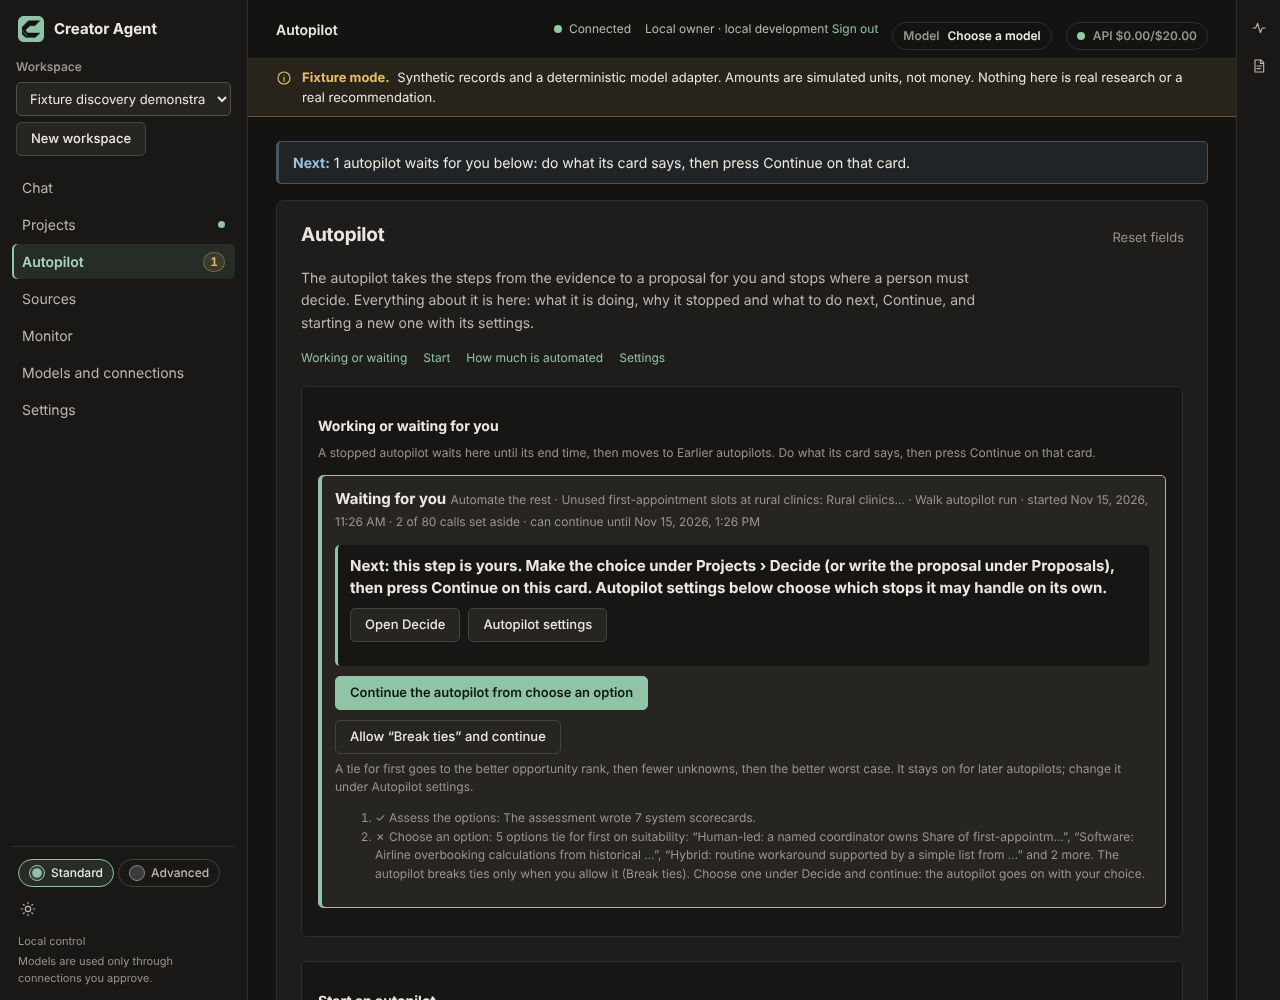
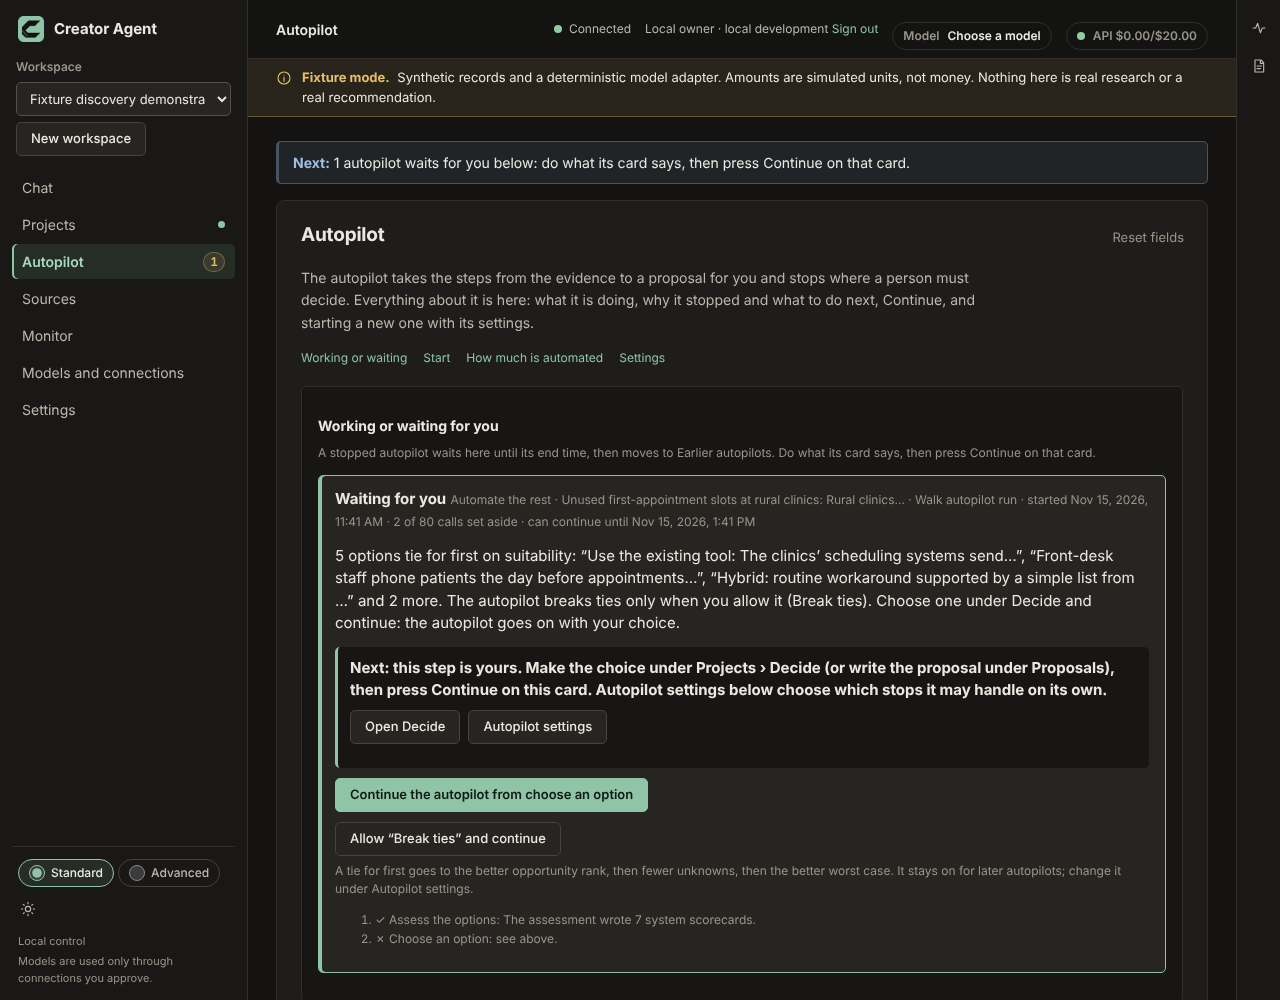
PR #213 review 2: ended Earlier cards say why, level and names fixes, EXPIRED on allow
Claude-Session: https://claude.ai/code/session_01JTbuZrsdRG1zP8JiZAz6eE

Changed region(s): [[0.25, 0.496, 0.875, 0.961], [0.25, 0.992, 0.3438, 1.0]]

diff --git a/apps/web/src/autopilot.tsx b/apps/web/src/autopilot.tsx
@@ -122,22 +122,41 @@ export function Autopilot({
   const owner = workspace.role === 'owner';
   const fixture = workspace.record_mode === 'fixture';
   const ctx = useLoad(async () => {
-    const [autopilots, routing, runs, problems] = await Promise.all([
+    const [autopilots, routing] = await Promise.all([
       api(z.array(AutopilotSchema), `${base}/autopilots`),
       loadRoutes(base),
-      // Review 1 of #213, L-4: each card names its run and problem, so two cards differ.
+    ]);
+    return { autopilots, ...routing };
+  }, [workspace.id]);
+  const c = ctx.data;
+  // Review 1 of #213, L-4: each card names its run and problem, so two cards differ. Read on
+  // their own, not with the list polled every 3 s, and again only when an autopilot names a
+  // run or problem not read yet (review 2, L-3).
+  const [names, setNames] = useState<Map<string, string>>(new Map());
+  const wanted = (c?.autopilots ?? [])
+    .flatMap((a) => [a.run_id, a.config.start?.problem.id ?? ''])
+    .filter((id) => id && !names.has(id));
+  const missing = [...new Set(wanted)].sort().join(',');
+  useEffect(() => {
+    if (!missing) return;
+    let live = true;
+    void Promise.all([
       api(z.array(TitledSchema), `${base}/entities?kind=run`).catch(() => []),
       api(z.array(TitledSchema), `${base}/entities?kind=problem`).catch(
         () => [],
       ),
-    ]);
-    return {
-      autopilots,
-      ...routing,
-      names: new Map([...runs, ...problems].map((e) => [e.id, e.title])),
+    ]).then(([runs, problems]) => {
+      if (!live) return;
+      const next = new Map(names);
+      for (const e of [...runs, ...problems]) next.set(e.id, e.title);
+      // An id with no record keeps an empty name, so it is not asked for again.
+      for (const id of missing.split(',')) if (!next.has(id)) next.set(id, '');
+      setNames(next);
+    });
+    return () => {
+      live = false;
     };
-  }, [workspace.id]);
-  const c = ctx.data;
+  }, [missing, workspace.id]);
   // A link to one autopilot (`id` in the address) opens its card, unfolding Earlier autopilots
   // when it is there, once the list has loaded.
   const shownFocus = useRef('');
@@ -430,7 +449,8 @@ export function Autopilot({
     const line = (s: AutopilotRecord['steps'][number], i: number) => (
       <li key={i} value={i + 1}>
         {MARK[s.state]} {AUTOPILOT_STAGE_LABEL[s.stage]}
-        {s.attempt > 1 ? ` (try ${s.attempt})` : ''}: {s.note}
+        {s.attempt > 1 ? ` (try ${s.attempt})` : ''}:{' '}
+        {repeats && i === a.steps.length - 1 ? 'see above.' : s.note}
       </li>
     );
     // Review 1 of #213, L-5: on a current card the last three steps show and the earlier ones
@@ -438,15 +458,16 @@ export function Autopilot({
     const shown = now ? a.steps.slice(-3) : a.steps;
     const folded = now ? a.steps.slice(0, -3) : [];
     const last = a.steps.at(-1);
-    // N-5: the explanation is left out when the last step's note already says it.
+    // N-5 (review 2, N-1): the stop's reason shows once, above the next step; the last step
+    // then points to it instead of repeating it.
     const repeats =
       !!last?.note &&
       (last.note === a.explanation ||
         last.note.includes(a.explanation.slice(0, 120)) ||
         a.explanation.includes(last.note.slice(0, 120)));
-    const run = c?.names.get(a.run_id);
+    const run = names.get(a.run_id);
     const problem = a.config.start?.problem
-      ? c?.names.get(a.config.start.problem.id)
+      ? names.get(a.config.start.problem.id)
       : undefined;
     const steps = (
       <>
@@ -514,7 +535,13 @@ export function Autopilot({
           <strong>
             {a.state === 'running'
               ? `Working: ${AUTOPILOT_STAGE_LABEL[a.stage].toLowerCase()}`
-              : (OUTCOME_LABEL[a.outcome ?? ''] ?? words(a.outcome ?? ''))}
+              : // Review 2 of #213, L-1: a stop that can no longer continue is not waiting.
+                !now &&
+                  a.outcome &&
+                  AUTOPILOT_RETRYABLE.includes(a.outcome) &&
+                  !can.ok
+                ? `Ended: ${can.reason.startsWith('Its end time') ? 'its end time passed' : 'it cannot continue'}`
+                : (OUTCOME_LABEL[a.outcome ?? ''] ?? words(a.outcome ?? ''))}
           </strong>{' '}
           <span className="small">
             {a.automation_id
@@ -536,7 +563,7 @@ export function Autopilot({
               : ''}
           </span>
         </p>
-        {!repeats && <p>{a.explanation}</p>}
+        <p>{a.explanation}</p>
         {now ? (
           <>
             {owner && a.state === 'finished' && a.outcome && (

diff --git a/packages/contracts/src/autopilot.ts b/packages/contracts/src/autopilot.ts
@@ -95,7 +95,7 @@ export function autopilotEndsApprovals(
   return (
     a.state === 'finished' &&
     (a.outcome === 'failed' ||
-      // The end time is not part of this rule: approvals end with the autopilot's own stop.
+      // The end time is left out: an autopilot past it keeps its approvals until it ends.
       !autopilotContinuable({
         state: a.state,
         outcome: a.outcome,
@@ -368,10 +368,11 @@ export type Autopilot = z.infer<typeof AutopilotSchema>;
 export function autopilotContinuable(
   a: Pick<Autopilot, 'state' | 'outcome' | 'steps'> &
     Partial<Pick<Autopilot, 'approvals_ended_at' | 'config'>>,
-  /** The server refuses Continue once the end time has passed (EXPIRED); so does this. */
   now = Date.now(),
 ): { ok: true } | { ok: false; reason: string } {
   if (a.state !== 'finished') return { ok: false, reason: 'It is running.' };
+  // Live rerun 3 (November 15): an old autopilot whose end time passed still showed Continue
+  // (the store refuses it); it says so instead, so only a live one offers Continue.
   if (a.config && Date.parse(a.config.limits.ends_at) <= now)
     return {
       ok: false,

diff --git a/packages/db/src/autopilot-store.ts b/packages/db/src/autopilot-store.ts
@@ -632,7 +632,6 @@ export class AutopilotStore extends WebDiscoveryStore {
         'VERSION_CONFLICT',
         `The autopilot is at version ${cur.version}.`,
       );
-    // Past its end time is EXPIRED, checked first since autopilotContinuable refuses it too.
     if (
       cur.state !== 'running' &&
       Date.parse(cur.config.limits.ends_at) <= Date.now()
@@ -871,6 +870,15 @@ export class AutopilotStore extends WebDiscoveryStore {
           throw fail(
             'VERSION_CONFLICT',
             `The autopilot is at version ${cur.version}.`,
+          );
+        // Review 2 of #213, N-2: past its end time it is EXPIRED, as for Continue.
+        if (
+          cur.state !== 'running' &&
+          Date.parse(cur.config.limits.ends_at) <= Date.now()
+        )
+          throw fail(
+            'EXPIRED',
+            "The autopilot's end time has passed; start a new autopilot.",
           );
         const can = autopilotContinuable(cur);
         if (!can.ok) throw fail('INVALID_TRANSITION', can.reason);

diff --git a/apps/web/src/automation.tsx b/apps/web/src/automation.tsx
@@ -3,7 +3,6 @@ import { useViewMode } from './view-mode.js';
 import {
   AUTOMATION_LEVEL_TEXT,
   AUTOMATION_SELECTION_ACTIONS,
-  AUTOPILOT_RETRYABLE,
   autopilotContinuable,
   AUTOPILOT_MIN_CALLS,
   AutopilotConfigSchema,
@@ -84,9 +83,10 @@ export function currentLevel(
   if (
     latest &&
     (latest.state === 'running' ||
+      // Review 2 of #213, L-2: only one that can still continue waits (not one past its end
+      // time, or whose approvals ended); the Autopilot page uses the same rule.
       (latest.outcome !== null &&
-        (AUTOPILOT_RETRYABLE.includes(latest.outcome) ||
-          autopilotContinuable({ ...latest, steps: latest.steps ?? [] }).ok)))
+        autopilotContinuable({ ...latest, steps: latest.steps ?? [] }).ok))
   ) {
     // An autopilot a selection level started that is still working or waiting after the level
     // ended: the run is Manual now (review L-3, review 2 N-1).

diff --git a/tracking/SESSION_HANDOFF.md b/tracking/SESSION_HANDOFF.md
@@ -2,7 +2,7 @@
 
 ## November 15 handoff — Autopilot page (ADR-0111)
 
-Branch `claude/project-thread-5bdkyb` from main 13744b4, main 6886fcf (#210) merged. Web only. `pages.ts`: view and page `autopilot` (after Projects). `autopilot-page.tsx` (`AutopilotPage`) mounts `Autopilot` with `between` = `Automation` + the `AutopilotSettingsPanel` section (`#autopilot-settings-title`). `autopilot.tsx`: `autopilotCurrent`, cards split into current (`article.card.waiting` when stopped) and earlier (folded), `controlError`, `NextAfterStop` takes `open` (Search the web: `open('submit')` + `revealWhenShown('web-title')`; exploration: `openExplorationWhenShown`). `automation.tsx` no longer mounts the settings panel. `discover-panels.ts`: `DiscoverPanel` drops autopilot and automation; `PanelChoice.page`. `next-rules.ts`/`next-step.tsx`: `StudioFacts.autopilots {running, waiting}`, `nextStep('autopilot')`; `main.tsx` nav count and dot. Walk: `tracking/evidence/autopilot-page/walk.mjs`. PR #211 (autopilot rerun fixes) is still open; it adds a Continue notice on Decide, and since 56768ae it carries the same `autopilotContinuable(a, now)` end-time change as this PR, word for word (review 1 H-1), so merging main after it lands should only conflict in tracking. Review 1 fixes: `autopilotCurrent` and the facts' `waiting` follow the end time; the page redraws every 30 s; `controlError` is per card; cards name problem and run (`shortName`) and their end time; `whenShown` shared. Stable link for the notifications plan: `#/autopilot/run?ws=<workspace>&id=<autopilot id>` opens that autopilot's card (unfolding Earlier autopilots), with its next step (`NextAfterStop`) shown on it. Next: re-review.
+Branch `claude/project-thread-5bdkyb` from main 13744b4, main 6886fcf (#210) merged. Web only. `pages.ts`: view and page `autopilot` (after Projects). `autopilot-page.tsx` (`AutopilotPage`) mounts `Autopilot` with `between` = `Automation` + the `AutopilotSettingsPanel` section (`#autopilot-settings-title`). `autopilot.tsx`: `autopilotCurrent`, cards split into current (`article.card.waiting` when stopped) and earlier (folded), `controlError`, `NextAfterStop` takes `open` (Search the web: `open('submit')` + `revealWhenShown('web-title')`; exploration: `openExplorationWhenShown`). `automation.tsx` no longer mounts the settings panel. `discover-panels.ts`: `DiscoverPanel` drops autopilot and automation; `PanelChoice.page`. `next-rules.ts`/`next-step.tsx`: `StudioFacts.autopilots {running, waiting}`, `nextStep('autopilot')`; `main.tsx` nav count and dot. Walk: `tracking/evidence/autopilot-page/walk.mjs`. PR #211 (autopilot rerun fixes) is still open; it adds a Continue notice on Decide, and since 56768ae it carries the same `autopilotContinuable(a, now)` end-time change as this PR, word for word (review 1 H-1), so merging main after it lands should only conflict in tracking. Review 1 fixes: `autopilotCurrent` and the facts' `waiting` follow the end time; the page redraws every 30 s; `controlError` is per card; cards name problem and run (`shortName`) and their end time; `whenShown` shared. Stable link for the notifications plan: `#/autopilot/run?ws=<workspace>&id=<autopilot id>` opens that autopilot's card (unfolding Earlier autopilots), with its next step (`NextAfterStop`) shown on it. Review 2 fixes (report `/mnt/project-files/reviews/PR213_REVIEW_2_2026-11-15.md`): Earlier cards that can no longer continue are headed `Ended: …`; `automation.tsx` `currentLevel` uses `autopilotContinuable` only; names load in their own effect keyed on missing ids; the store's allow path checks `EXPIRED` before `autopilotContinuable`, as `#retryIn` does. Next: re-review, then merge main once #211 lands (keep one copy of the end-time code).
 ## November 15 handoff — Windows web build and B1 records (PR #212)
 
 Branch `claude/project-thread-lvmxmx` from main 13744b4 (main 6886fcf with #210 merged in). `apps/web/src/package-root.ts`: `rootOf`, `packageRoot(entry, path)` (forward slashes, throws when no package directory is above the entry), `inNodeModules(entry, path)`; `vite.config.ts` `thirdPartyLicenses()` uses them with the platform `node:path`. The web app never imports the module; it lives under `src` so `loadWeb` tests can run it. Records and README in `tracking/evidence/recipe-qualifications/2026-11-15-installed/` (builder/1 run) and `2026-11-15-rerun/` (builder/2 rerun: A1', H1–H3 qualified, H4 failed on a preamble). Review 1 and its re-check: `/mnt/project-files/reviews/PR212_REVIEW_1_2026-11-15.md`. Windows build and licence list confirmed (23 packages). Next: Jordan's merge; then `p15-small-signup-v5` on the ChatGPT connection under builder/2, and a decision on the Claude H4 preamble (needs Jordan).

diff --git a/tracking/DECISIONS.md b/tracking/DECISIONS.md
@@ -17,6 +17,8 @@ Jordan's request (November 15): using the autopilot meant going all over the stu
 - **Lows.** Tracking no longer credits #211 with this page's work (L-1), and the build status lists the checks that ran (L-2). A Stop or Continue error shows on the card that was pressed (L-3). Each card names its problem and run, and when it can continue until or must stop by (L-4). A current card shows the next step and its buttons above the steps, with only the last three steps open (L-5). The Manual audit reason says the Autopilot page (L-6).
 - **Nits.** The next-step line reads "do what each card says, then press Continue on that card" (N-1). "Whole process" links to "Start an autopilot" (N-2). The card's top padding is 12 px (N-3). Allow and continue's explanation sits on its own line (N-4). The explanation is left out when the last step's note says the same (N-5). `whenShown` (`discovery-progress.tsx`) is shared by Search the web and Open the exploration (N-6). Non-owners read "The workspace owner can continue it", and only the owner sees the nav count (N-7).
 
+**Amendment (November 15, review 2 of PR #213: three Lows, three nits, all fixed).** L-1: a card under Earlier autopilots whose stop could otherwise be continued is headed "Ended: its end time passed" or "Ended: it cannot continue" instead of "Waiting for you". L-2: How much is automated reads the current level with `autopilotContinuable` only, so an expired autopilot no longer counts. L-3: the run and problem names load once per missing id, not with every 3-second refresh. N-1: the stop's explanation is always shown, and a last step that repeats it says "see above.". N-2: the server's Allow and continue refuses an autopilot past its end time with `EXPIRED`, as Continue does, before the continuable check. N-3: the shared end-time code and comments match #211's, so the merge keeps one copy.
+
 ## ADR-0110 — Build roles may wrap their whole answer in one code fence, in new frozen benchmark versions (November 15, 2026; no migration)
 
 **Owner decision (Jordan, November 15, 06:45 UTC): "Accept one fence, new version".** Packet H stopped at H1: `claude-sonnet-5-5` on the local Claude Code connection failed `t12-builder-v1` with 1 of 3 held out (qualification record `7c054251`), because bd-03 and bd-04 wrapped otherwise complete JSON in a markdown code fence and the grader needs raw strict JSON. GPT-6 Astra is unaffected (packet A passed). That failed record stays on record as it is; nothing is re-graded.

diff --git a/tracking/BUILD_STATUS.md b/tracking/BUILD_STATUS.md
@@ -6,7 +6,10 @@ What now works: **Autopilot** is its own page in the left nav, just below Projec
 
 Review 1 (1 High, 6 Lows, 7 nits) fixed: an autopilot past its end time no longer shows Continue or counts as waiting. It moves to Earlier autopilots, even while the page is open.
 
+Review 2 (3 Lows, 3 nits) fixed: an ended card under Earlier autopilots says why it ended instead of "Waiting for you"; How much is automated no longer counts an expired autopilot; names load once instead of every refresh; the server's Allow and continue refuses an expired autopilot as `EXPIRED`, like Continue.
+
 Checks (cloud container, throwaway PostgreSQL 16): `pnpm typecheck` and `pnpm format:check` pass, and so do the targeted web and autopilot suites. Full `pnpm test:db` at ab1f11e: 1349 tests, 1315 pass, 29 skipped, and only the 5 known PowerShell-wrapper failures. The browser walk (`tracking/evidence/autopilot-page/`, fixture provider, $0) passes 22 of 22 checks, including an autopilot whose end time passes while the page is open and a link to one autopilot (`#/autopilot/run?ws=…&id=<autopilot id>`) that opens its card.
+
 ## November 15 update — Windows web build fixed; packet A and H records (PR #212, no migration or ADR)
 
 What now works: `node apps/desktop/build-studio.mjs` builds on Windows again. PR #201's licence list walked up from each viewer library's entry comparing backslash paths against `/node_modules/`, reached the drive root and failed with `ENOENT C:\package.json`. The walk (`apps/web/src/package-root.ts`, used by `apps/web/vite.config.ts`) now works in forward slashes on every platform, keeps POSIX names with a backslash intact, and stops with a clear error instead of reading a drive root. On Linux the built `THIRD_PARTY_LICENSES.txt` is byte-identical before and after (23 packages). New test `tests/src/web-package-root.test.ts` runs the walk with Windows (drive, pnpm store, scoped, UNC) and POSIX path rules; the old code walked to `C:\` on the same input.

diff --git a/tracking/evidence/autopilot-page/README.md b/tracking/evidence/autopilot-page/README.md
@@ -4,11 +4,11 @@ November 15, 2026, cloud container. Throwaway PostgreSQL 16 database `autopilot_
 
 `seed-discovery` through the real CLI, then through the API two runs whose routine approvals cover an autopilot started at assessment of a seeded problem: one ending in 2 hours, one ending 75 seconds after it starts. The fixture rates every option the same, so both stop at a tie and wait for the person.
 
-Results (22 of 22 PASS, after the review 1 fixes):
+Results (22 of 22 PASS, rerun after the review 2 fixes):
 
 - The left nav reads Chat, Projects, **Autopilot**, Sources, Monitor, Models and connections, Settings, and the Autopilot entry counts 2.
 - The page opens at `#/autopilot/run` with two waiting cards, each naming its problem and run and saying until when it can continue.
-- With the page left open, the short autopilot's end time passes: it moves to Earlier autopilots, saying its end time has passed, with no Continue or Allow, and the nav count drops to 1 (review 1 H-1).
+- With the page left open, the short autopilot's end time passes: it moves to Earlier autopilots, headed “Ended: its end time passed” (review 2 L-1), with no Continue or Allow, and the nav count drops to 1 (review 1 H-1).
 - The waiting card shows what to do next, then **Continue the autopilot from choose an option** and **Allow “Break ties” and continue**, then its steps (`01-autopilot-page.png`).
 - The page holds, top to bottom: working or waiting, Start an autopilot, How much is automated, Autopilot settings (`02-levels-and-settings.png`).
 - Discover no longer has the autopilot or automation panels; its **Run it for me** choice opens the Autopilot page.
